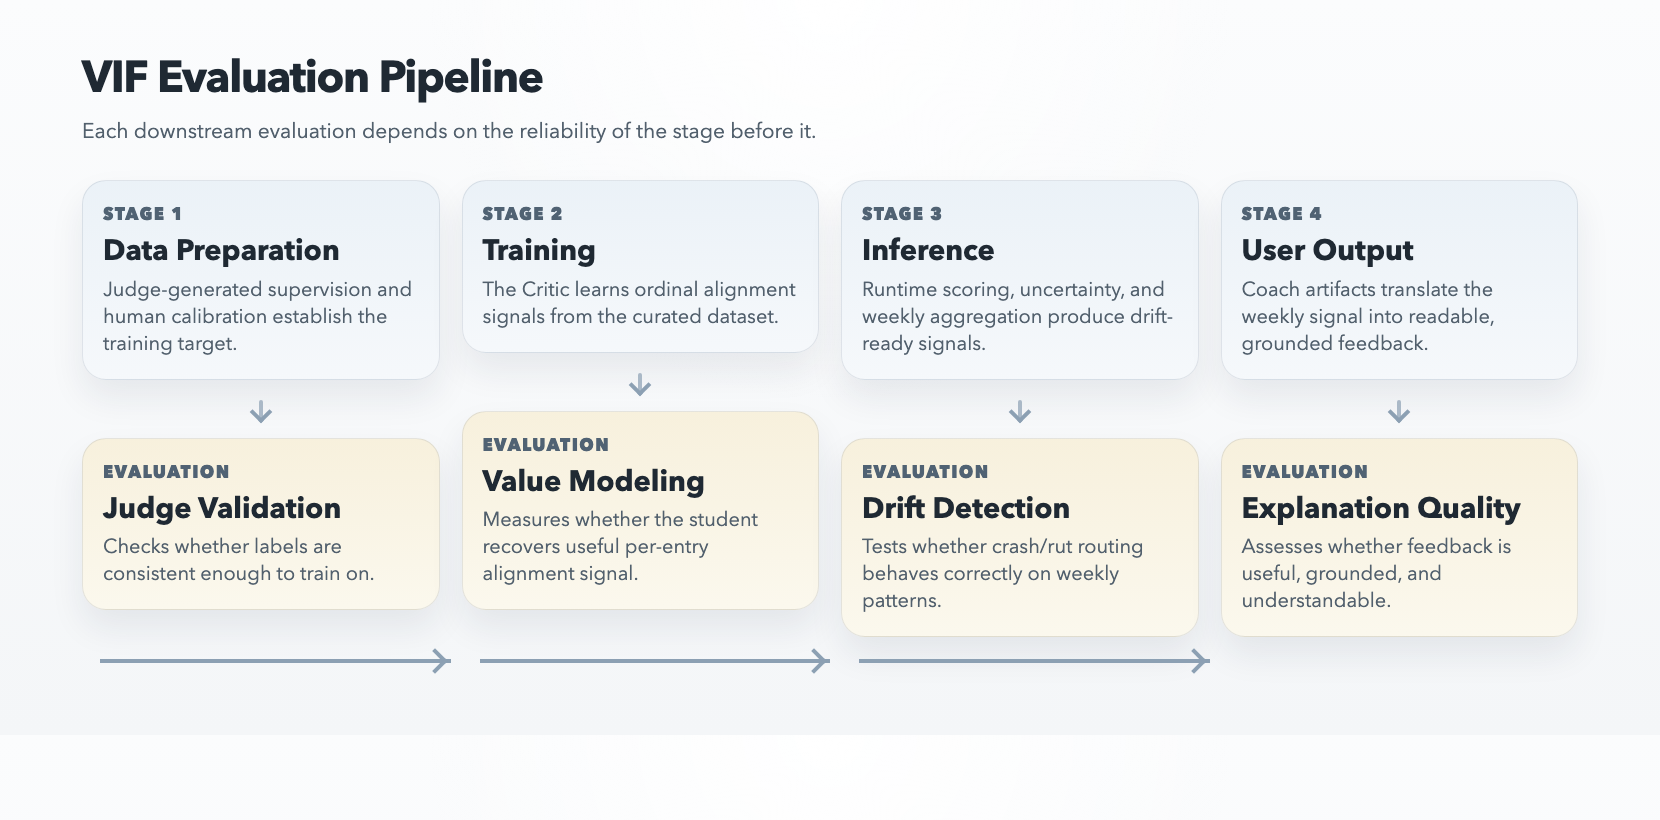
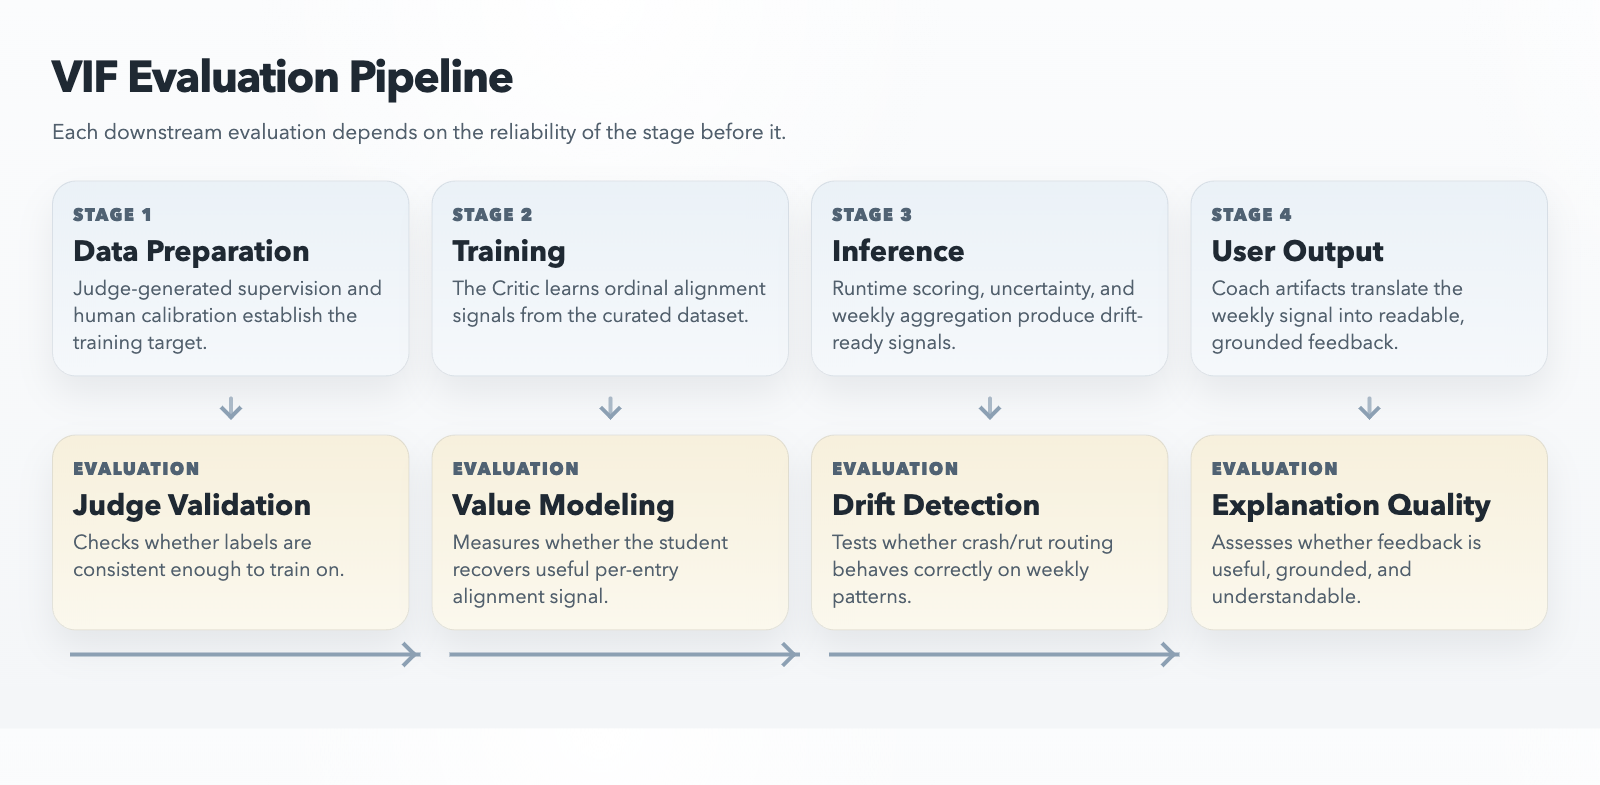
docs: restructure April proposal for sponsor-first reading
- Move milestone scorecard and delivery state up after problem statement
- Replace generic competitor table with 6 named products (Rosebud,
  Reflection, Mindsera, Reflectly, Life Note, Stoic) plus market context
- Add per-dimension QWK chart showing frontier performance across all
  10 Schwartz dimensions with seed variance
- Add market context visualization with verified source attributions
- Add deployment/cost sketch with two paths (standalone mobile, Claude
  integration)
- Surface undersold components: nudge decision engine, 53 test modules,
  9 ordinal loss variants, 6 drift detectors, 4 coach response modes,
  Three.js embedding explorer
- Strengthen conclusion with concrete commitments and risk mitigation
- Remove meta-commentary opening paragraph
- Fix VIF evaluation pipeline box alignment (uniform 196px height)

diff --git a/docs/capstone_report/image_sources/vif_evaluation_pipeline.html b/docs/capstone_report/image_sources/vif_evaluation_pipeline.html
@@ -63,7 +63,9 @@
         border: 1px solid rgba(84, 99, 117, 0.14);
         background: var(--card);
         box-shadow: 0 18px 34px rgba(30, 41, 59, 0.08);
-        min-height: 156px;
+        height: 196px;
+        display: flex;
+        flex-direction: column;
       }
 
       .stage-card {

diff --git a/docs/capstone_report/April_Project_Proposal.md b/docs/capstone_report/April_Project_Proposal.md
@@ -1,13 +1,10 @@
 # April Project Proposal
 
-This report presents Twinkl's April 2026 milestone as a project update for
-sponsors. The goal is to show that the team has built a technical core,
-understands the main delivery risks, and has a path to a demonstrable product
-slice.
-
 [**1. Introduction**](#1-introduction)
 
 [Problem Statement](#problem-statement)
+
+[Milestone Status](#milestone-status)
 
 [Differentiation and Target Users](#differentiation-and-target-users)
 
@@ -73,6 +70,8 @@ slice.
 
 [Phase 2 (June-September 2026)](#phase-2-june-september-2026)
 
+[Deployment and Cost Sketch](#deployment-and-cost-sketch)
+
 [Deferred and Out-of-Scope](#deferred-and-out-of-scope)
 
 [**7. Challenges and Open Questions**](#7-challenges-and-open-questions)
@@ -113,25 +112,7 @@ For this milestone, the core question is whether this alignment engine can be
 built, trained, validated, and run in a way that justifies continued
 investment.
 
-### Differentiation and Target Users
-
-Twinkl is aimed first at knowledge workers in transition: graduate students,
-new managers, founders, and other high-agency professionals managing recurring
-trade-offs across work, health, relationships, and identity. These users
-already journal, seek coaching, or pay for reflective productivity tools, yet
-most available products still stop at summarisation, prompting, or general
-wellness encouragement.
-
-The product distinction is straightforward: most AI journaling tools explain
-what the user has been feeling; Twinkl is designed to ask whether the user has
-been living in line with what they said matters.
-
-| Current AI Journals | Twinkl |
-| :--- | :--- |
-| Summarise mood, topics, and streaks | Compare behaviour against a declared value profile |
-| Treat each entry mainly as a stand-alone reflection | Maintain an evolving self-model across entries |
-| Offer general prompts or coaching questions | Surface evidence-grounded tensions, trade-offs, and alignment patterns |
-| Optimise for engagement and reflection volume | Optimise for honest accountability and explainable weekly review |
+### Milestone Status
 
 This milestone already answers four practical questions:
 
@@ -159,9 +140,35 @@ settings.
 At this stage, Twinkl remains an internal prototype rather than a user-ready
 product.
 
-The project still spans intelligent sensing, pattern recognition, reasoning,
-and AI systems orchestration; the formal program mapping is provided in the
-appendix.
+### Differentiation and Target Users
+
+Twinkl is aimed first at knowledge workers in transition: graduate students,
+new managers, founders, and other high-agency professionals managing recurring
+trade-offs across work, health, relationships, and identity. These users
+already journal, seek coaching, or pay for reflective productivity tools, yet
+most available products still stop at summarisation, prompting, or general
+wellness encouragement.
+
+The product distinction is straightforward: most AI journaling tools explain
+what the user has been feeling; Twinkl is designed to ask whether the user has
+been living in line with what they said matters. Several funded competitors
+illustrate the gap:
+
+| App | Core Approach | Gap vs Twinkl |
+| :--- | :--- | :--- |
+| Rosebud | CBT/ACT-based therapeutic reflection with habit tracking | No declared-value model; analyses mental patterns, not behavioural drift from stated priorities |
+| Reflection | AI companion with mood tracking and retrospective theme discovery | Values discovered post-hoc from entries, not proactively declared or tracked over time |
+| Mindsera | 50+ generic mental frameworks (CBT, Stoic, Ikigai, etc.) with multi-perspective AI | External frameworks applied uniformly, not adapted to user-specific value trade-offs |
+| Reflectly | Mood tracking with conversational AI and daily challenges | Purely emotional pattern analysis; no values framework or alignment assessment |
+| Life Note | 1,000+ AI mentors modelled on historical figures | Mentor philosophies are fixed; no mechanism to track the user's own evolving priorities |
+| Stoic | Stoic philosophy daily rituals with GPT-4 | Single prescriptive philosophy, not a user-declared values model |
+
+The addressable market spans digital journal apps (USD 5.69 billion in 2025,
+11.5% CAGR), mental health apps (USD 7.48 billion, 14.6% CAGR), and personal
+development tools (USD 46.1 billion, 8.0% CAGR). Twinkl sits at the
+intersection: structured value-alignment coaching delivered through journaling.
+
+![Market context](market_context.png)
 
 ### Related Academic Work
 
@@ -241,9 +248,11 @@ trajectories rather than isolated text snippets.
 Each persona combines a demographic profile with 1-2 emphasized Schwartz
 dimensions. Generation runs in parallel across personas but sequentially within
 each persona so later entries can refer to earlier events. Entries vary in tone
-and reflection style, and the pipeline can optionally generate conversational
-nudge-response turns to better reflect how users interact with modern
-journaling products.
+and reflection style, and the pipeline includes a conversational nudge system
+that uses a three-category decision engine (clarification, elaboration,
+tension-surfacing) with anti-annoyance throttling (maximum two nudges per three
+entries). Nudge-response pairs are integrated across 62% of the current corpus
+and better reflect how users interact with modern journaling products.
 
 The pipeline also includes leakage controls. Explicit Schwartz terminology is
 banned from generated text, generation context is separated from labeling
@@ -334,9 +343,11 @@ make follow-up experiments more comparable. The project now has a repeatable
 evaluation regime, an archived experiment history, and explicit promotion
 criteria for new challengers.
 
-The codebase also maintains automated tests across the core pipeline, including
-critic training and evaluation, judge labeling, data wrangling, coaching and
-runtime behavior, and local integration smoke checks. That level of test
+The codebase maintains **53 test modules** covering all nine ordinal loss
+functions (CORAL, CORN, EMD, SoftOrdinal, CDW-CE, BalancedSoftmax, Two-Stage
+BalancedSoftmax, LDAM-DRW, and SLACE), gradient flow and numerical stability,
+evaluation metrics, coach runtime, nudge decision logic, data wrangling, the
+demo workbench, and local integration smoke tests. That level of automated
 coverage supports continued iteration without turning every change into a
 manual regression risk.
 
@@ -432,7 +443,7 @@ The project also contains two related but different extensions:
 
 | Capability | Current role |
 | :--- | :--- |
-| Multi-detector comparison | Evaluation surface used to compare alternative heuristic families offline |
+| Multi-detector comparison | A demo workbench comparing six drift-detection families (Baseline, EMA, CUSUM, Cosine Similarity, Control Chart, KL Divergence) with source toggling between judge labels and critic predictions and interactive visualisations; used to evaluate alternative heuristics offline |
 | Evolution analysis | Experimental layer used to test whether sustained divergence may reflect changing priorities rather than failure |
 
 Neither should be presented as committed production behaviour yet. For this
@@ -451,6 +462,12 @@ the form of a weekly artifact that:
 - builds a full-context weekly prompt
 - can optionally generate a narrative response
 - runs first-pass checks on groundedness, non-circularity, and length
+
+The coach selects from four active behavioural modes — **high uncertainty**,
+**rut**, **mixed state**, and **background strain** — plus a **stable**
+fallback when no tension is detected. Each mode shapes the tone, evidence
+selection, and question framing of the weekly digest so the feedback matches
+the user's current behavioural pattern rather than applying a generic template.
 
 This is further along than a design sketch, but it is not a finished product
 experience. Structured digest generation is implemented, narrative-generation
@@ -602,6 +619,11 @@ The current frontier remains below the report's target range for end-user
 reliability, but the critic is clearly learning signal. The next round of work
 therefore remains focused on hard dimensions and target quality.
 
+The per-dimension breakdown shows where the critic already captures meaningful
+signal and where hard dimensions drag the aggregate:
+
+![Per-dimension QWK frontier](per_dimension_qwk_frontier.png)
+
 ### What Was Tried Beyond the Frontier
 
 The main post-frontier challengers clarified what still does and does not move
@@ -647,12 +669,13 @@ model checkpoint all the way through to weekly outputs.
 This makes the pipeline inspectable, debuggable, and demonstrable, even though
 the current review surface is still internal rather than end-user facing.
 
-The team also has an interactive embedding explorer for qualitative inspection
-of what the critic has learned across all **1,651** labeled entries. It
-supports multiple projection and coloring modes, lets reviewers inspect
-individual points in detail, and traces persona trajectories through the learned
-representation over time. It serves as an internal review tool for inspecting
-model behavior beyond aggregate metrics.
+The team also built an interactive embedding explorer using Three.js for
+qualitative inspection of what the critic has learned across all **1,651**
+labeled entries. The tool offers 3D visualization with multiple projection
+modes (PCA, t-SNE, UMAP), per-dimension coloring, individual point inspection,
+and persona trajectory tracing through the learned representation over time. It
+serves as an internal review tool for auditing model behaviour beyond aggregate
+metrics.
 
 ### Phase 1 (April 2026 Scope-Locking Wave)
 
@@ -718,6 +741,35 @@ current scope-locking work proves.
 
 Phase 2 output should include a final system path and a final capstone claim
 about what Twinkl can and cannot yet do based on the completed work.
+
+### Deployment and Cost Sketch
+
+The critic model contains approximately **23,000 parameters** and runs **50
+MC Dropout forward passes** per inference. At this scale, two deployment paths
+are feasible:
+
+**Path 1: Standalone mobile application**
+
+| Component | Deployment | Cost driver |
+| :--- | :--- | :--- |
+| Critic (VIF) | On-device via TensorFlow Lite (iOS/Android) or Core ML (iOS) | Zero marginal cost per inference; model size < 100 KB |
+| Weekly coach narrative | Cloud LLM API call (e.g. Claude Haiku) | ~1 call per user per week; at current pricing ($1/$5 per M input/output tokens), a weekly digest costs fractions of a cent |
+| Drift detection | On-device rule-based engine | Zero marginal cost |
+| Storage | Local journal encrypted on device; value profile and weekly signals synced to cloud | Standard mobile backend costs |
+
+**Path 2: Integration as a Claude feature**
+
+| Component | Deployment | Cost driver |
+| :--- | :--- | :--- |
+| Critic (VIF) | Lightweight server-side model or compiled into Claude's tool-use context | Negligible compute relative to the host LLM |
+| Weekly coach narrative | Native Claude generation within the existing conversation | No additional API cost beyond the user's existing session |
+| Drift detection | Server-side, integrated into Claude's memory and context system | Minimal |
+| User experience | Journal entries as part of normal Claude conversation; weekly digest surfaces as a proactive message | Leverages existing Claude infrastructure |
+
+In both paths, the critic's small footprint means inference cost is
+negligible. The dominant variable cost is the weekly LLM call for narrative
+generation, which at current Haiku pricing amounts to well under $0.01 per
+user per week.
 
 ### Deferred and Out-of-Scope
 
@@ -814,22 +866,37 @@ The most important remaining questions are:
 
 ## 8. Conclusion
 
-By this milestone, the project has a functioning offline supervision pipeline,
-a human benchmark, a critic-training program, and an internal runtime path that
-can produce weekly review artifacts from saved checkpoints.
+By this milestone, the project has delivered a functioning offline supervision
+pipeline, a human benchmark, a disciplined critic-training program, and an
+internal runtime path that produces weekly review artifacts from saved
+checkpoints. The engineering foundation — 53 test modules, nine ordinal loss
+variants, six drift detectors, and a four-mode coaching engine — is deeper than
+a typical POC and designed to support continued iteration.
 
-At the same time, the report should be honest about what remains unfinished.
-The project has not yet proven a live onboarding-to-runtime loop, a calibrated
-weekly drift benchmark, or real-user explanation quality. The central remaining
-risk is whether the value model can be made reliable enough on the hardest
-dimensions to support trustworthy user-facing feedback.
+The honest gaps remain: the critic has not yet reached the QWK target on the
+hardest dimensions, the weekly drift benchmark is not yet calibrated, and no
+real user has seen the output. These are the right problems to have at this
+stage — they are measurable, scoped, and addressed by the Phase 2 plan.
 
-The next milestone must therefore do three things clearly: improve the quality
-of the hardest supervision targets, calibrate the weekly routing layer against
-a real benchmark, and demonstrate one narrow path from declared priorities to
-scored evidence to weekly reflective output that is ready to present
-externally. If those three steps succeed, the project will be in a better
-position to argue for its capstone and product relevance.
+Three concrete steps define the path forward:
+
+1. **Improve hard-dimension supervision targets** so the critic trains against
+   labels that are actually reachable from student-visible context.
+2. **Calibrate the weekly routing layer** against synthetic crisis-injection
+   timelines with measured hit rate, precision, and recall.
+3. **Run a narrow external pilot** to test whether alignment signals and weekly
+   digests transfer from synthetic personas to real journaling behaviour.
+
+Risk mitigation is built into the timeline. If hard-dimension targets do not
+improve sufficiently, the project will narrow the active value set to the
+dimensions where the critic already performs credibly — preserving a
+demonstrable end-to-end path while being transparent about scope. If the
+external pilot reveals systematic gaps, the team will treat those findings as
+the capstone's concluding contribution rather than as a failure.
+
+The team is committed to delivering a working end-to-end demonstration by the
+final milestone: from declared priorities to scored evidence to a weekly
+reflective output that a real user can evaluate.
 
 ## Appendix: Program Submodule Mapping
 
